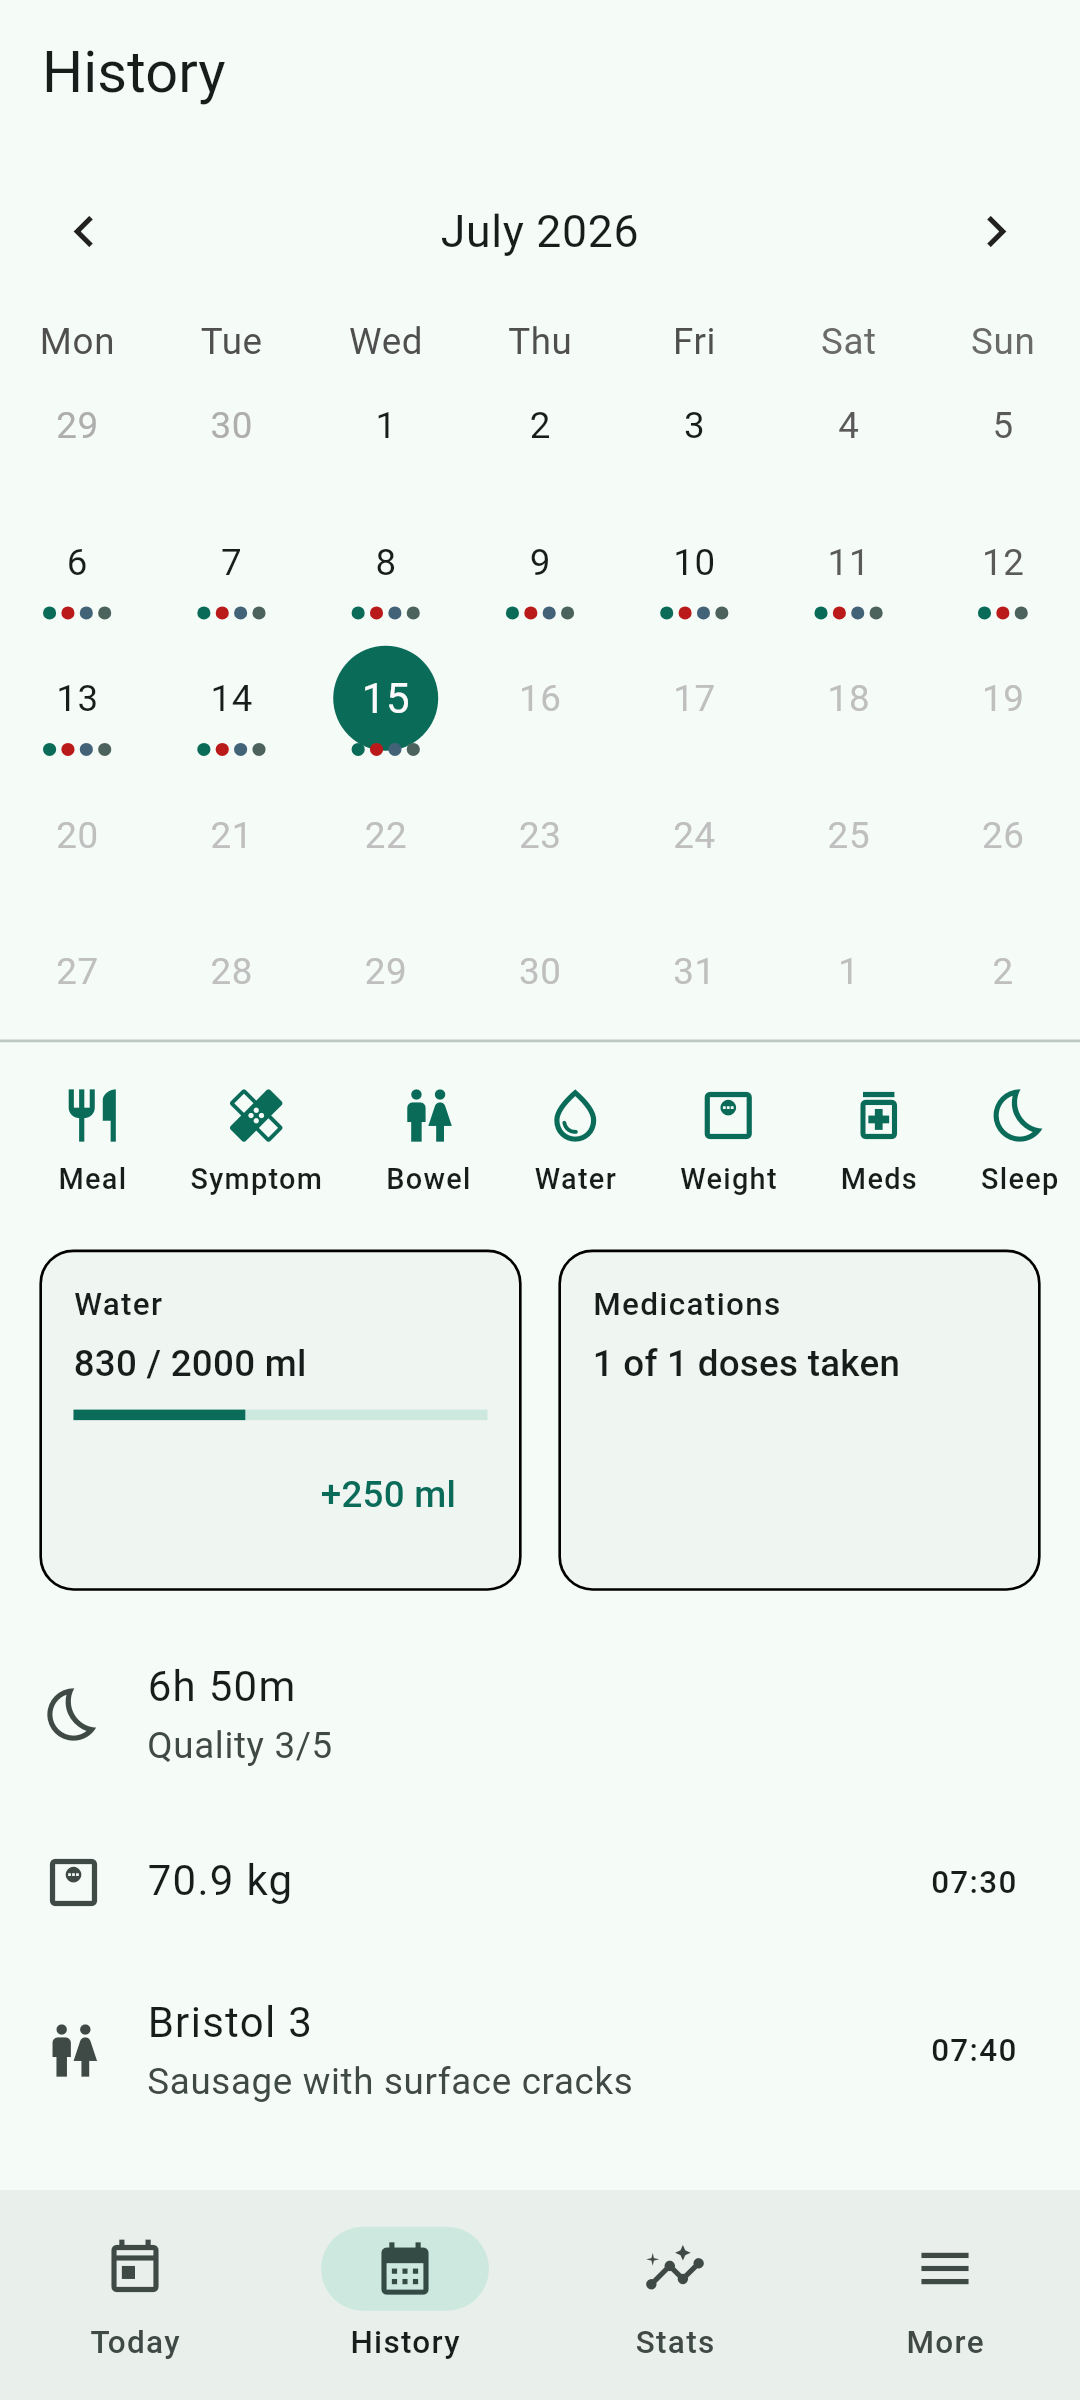
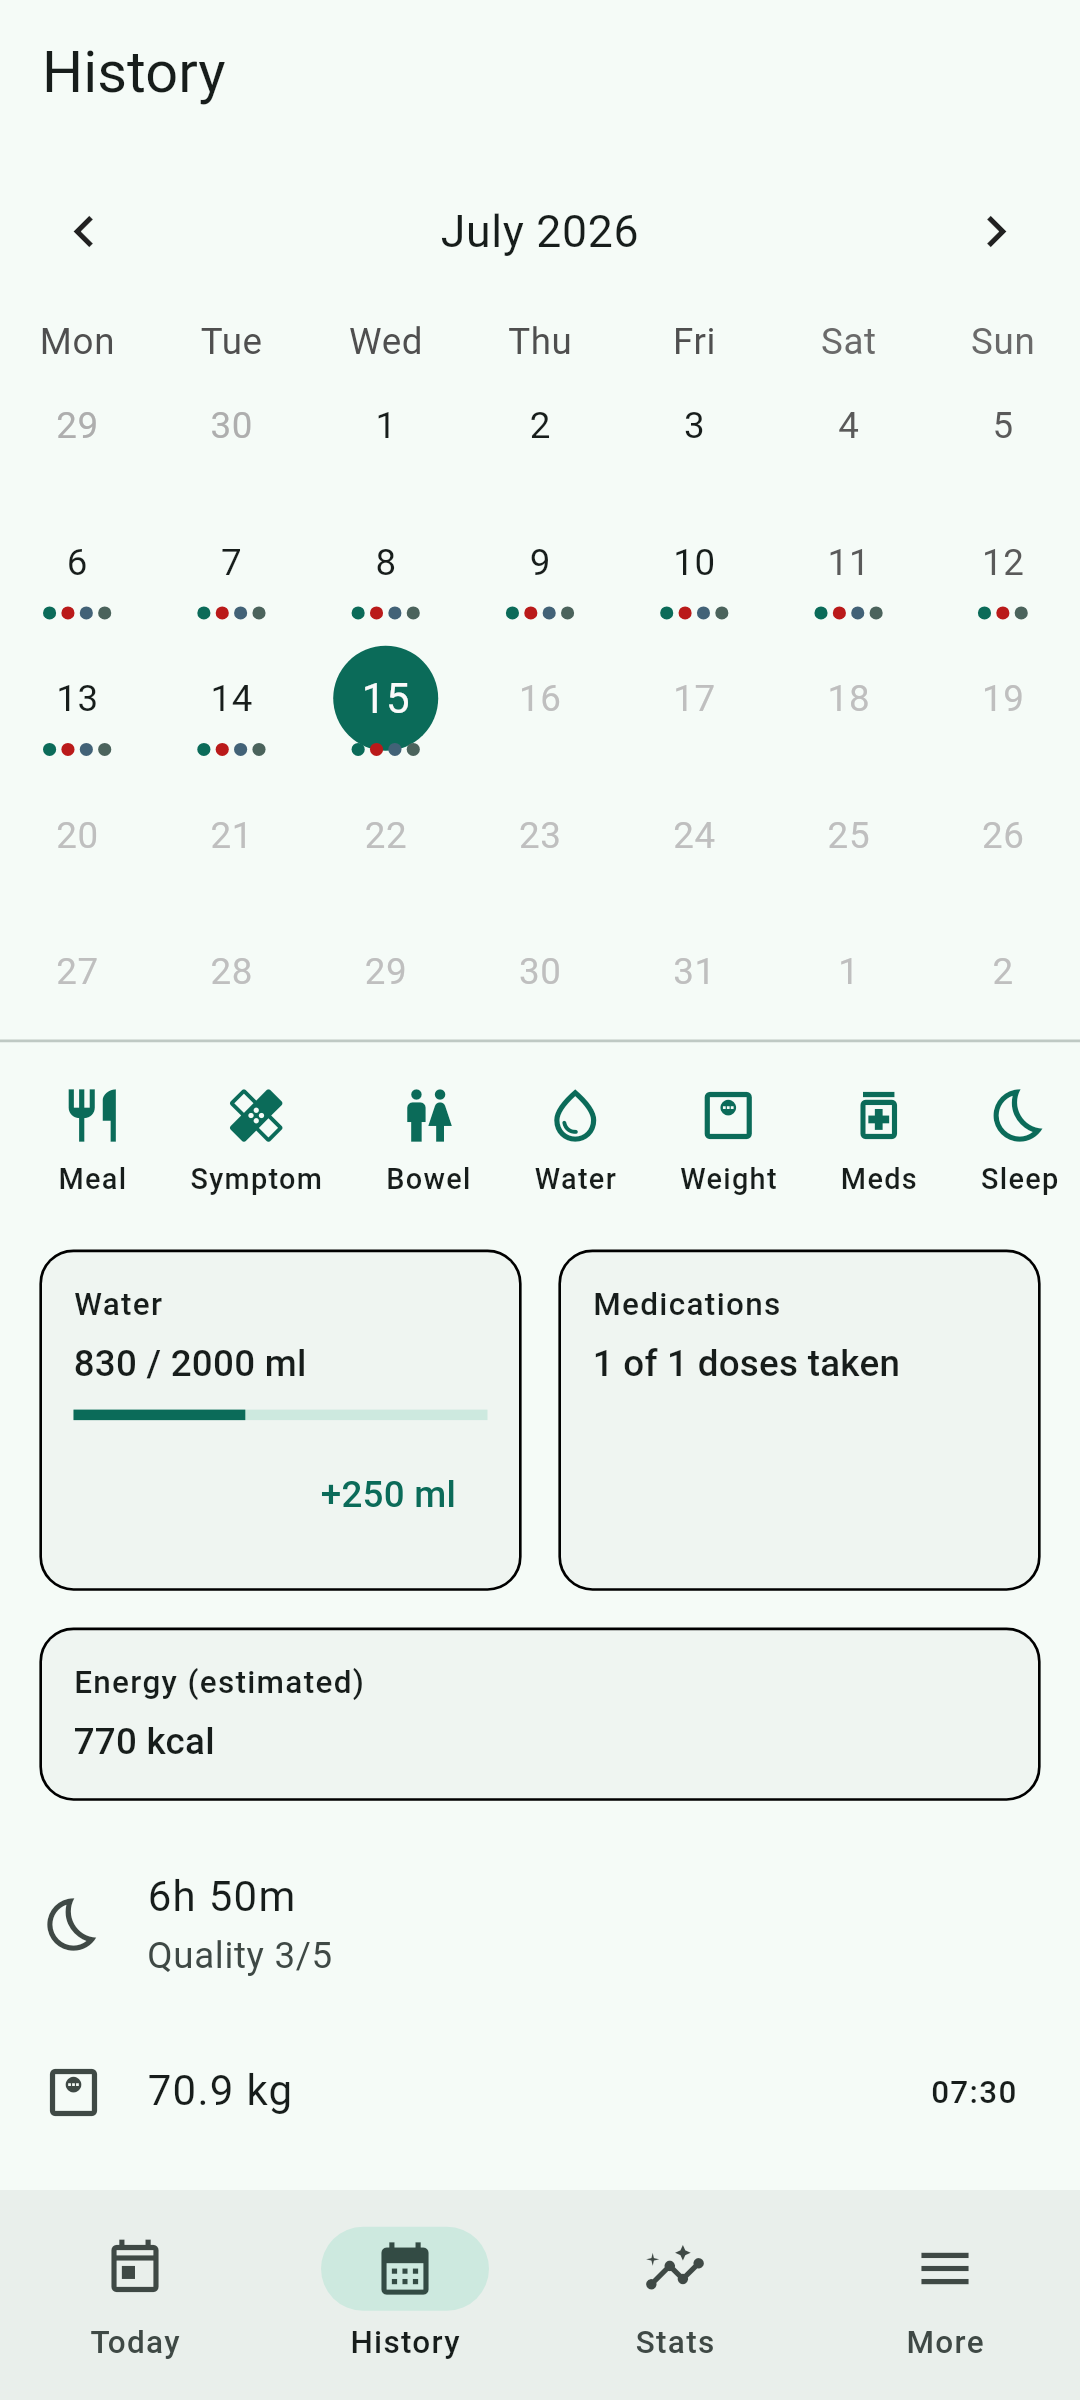
chore(dev): seed demo kcal estimates for screenshots
Plausible per-serving values on part of the demo library (partial
tracking on purpose), so the Today energy card and the Stats chart
have data in screenshot builds. Refreshed today/history captures.

diff --git a/lib/dev/demo_seed.dart b/lib/dev/demo_seed.dart
@@ -5,11 +5,13 @@ import 'package:gut_journey/core/providers/database_provider.dart';
 import 'package:gut_journey/features/activity/data/activity_repository.dart';
 import 'package:gut_journey/features/activity/domain/effort.dart';
 import 'package:gut_journey/features/bowel/data/bowel_repository.dart';
+import 'package:gut_journey/features/meals/data/food_repository.dart';
 import 'package:gut_journey/features/meals/data/meal_repository.dart';
 import 'package:gut_journey/features/meals/domain/meal_entry.dart';
 import 'package:gut_journey/features/meals/domain/meal_type.dart';
 import 'package:gut_journey/features/medications/data/medication_repository.dart';
 import 'package:gut_journey/features/medications/domain/medication_enums.dart';
+import 'package:gut_journey/features/nutrition/domain/nutrition_facts.dart';
 import 'package:gut_journey/features/onboarding/data/onboarding_state.dart';
 import 'package:gut_journey/features/settings/data/settings_repository.dart';
 import 'package:gut_journey/features/sleep/data/sleep_repository.dart';
@@ -44,6 +46,21 @@ const _activities = [
   ('Yoga', 25, Effort.light),
   ('Swimming', 40, Effort.moderate),
   ('Cycling', 45, Effort.moderate),
+];
+
+/// Plausible kcal-per-serving estimates for part of the demo library, so
+/// the Today card and the Stats energy chart have data in screenshots.
+/// Deliberately not all foods: partial tracking is the realistic state.
+const _kcalPerServing = [
+  ('Oat porridge', 220),
+  ('Eggs', 155),
+  ('Rice', 200),
+  ('Grilled chicken', 230),
+  ('Salmon', 280),
+  ('Potatoes', 180),
+  ('Quinoa', 190),
+  ('Banana', 90),
+  ('Rice noodles', 210),
 ];
 
 /// Fills ~10 days of realistic diary data through the real repositories the
@@ -174,5 +191,17 @@ Future<void> seedDemoInto(ProviderContainer container) async {
         scheduledTime: '08:00',
       );
     }
+  }
+
+  // Nutrition estimates on the foods the meals above created.
+  final foods = container.read(foodRepositoryProvider);
+  for (final (name, kcal) in _kcalPerServing) {
+    final item = await foods.getOrCreateByName(name);
+    await foods.setAttribute(
+      foodItemId: item.id,
+      source: nutritionAttributeSource,
+      key: nutritionKcalKey,
+      value: '$kcal',
+    );
   }
 }